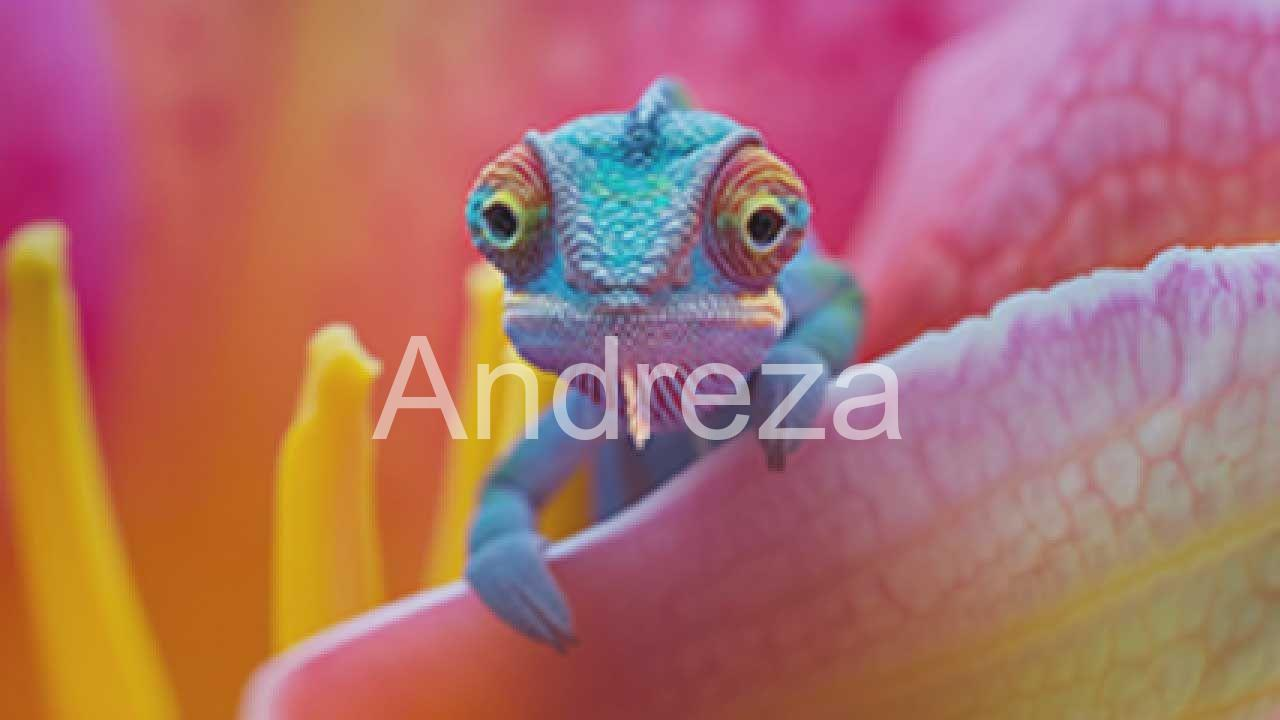
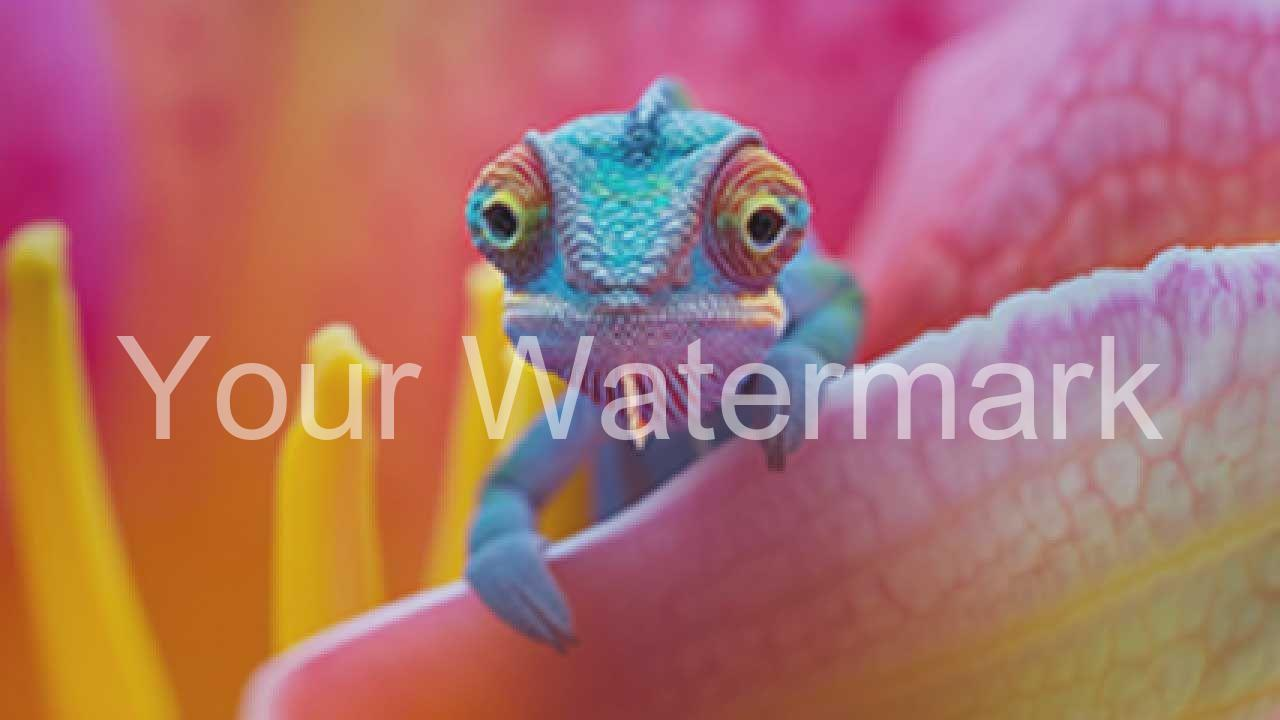
cleanup

Changed region(s): [[0.0938, 0.4583, 0.9062, 0.6111]]

diff --git a/server.py b/server.py
@@ -2,16 +2,16 @@ import os
 import sqlite3
 
 import requests
-from PIL import Image, ImageDraw, ImageFont
 from dotenv import load_dotenv
 from flask import Flask, render_template, session, request, redirect, url_for, send_file, \
     jsonify  # <-- Ensure 'session' is imported
 from flask_bootstrap5 import Bootstrap
-from spotipy import Spotify
+from spotify.user import get_spotify_for_user
 from spotipy.cache_handler import FlaskSessionCacheHandler  # Keep this import
 from spotipy.oauth2 import SpotifyOAuth
 
 from morse_code_converter import converter
+from watermark import add_watermark
 
 dotenv_path = os.path.join(
     os.path.dirname(__file__), ".env"
@@ -36,7 +36,6 @@ app.config["BEARER_TOKEN_MOVIE"] = os.environ.get("TMDB_BEARER_TOKEN")
 app.config["UPLOAD_FOLDER"] = "uploads"
 os.makedirs(app.config["UPLOAD_FOLDER"], exist_ok=True)
 BEARER_TOKEN_MOVIE = app.config.get("BEARER_TOKEN_MOVIE")
-
 SPOTIPY_CLIENT_ID = os.getenv('SPOTIFY_CLIENT_ID')
 SPOTIPY_CLIENT_SECRET = os.getenv('SPOTIFY_CLIENT_SECRET')
 SPOTIPY_REDIRECT_URI = os.getenv('SPOTIFY_REDIRECT_URI', 'https://website-0std.onrender.com/disney/callback')
@@ -55,9 +54,6 @@ SCOPE = (
     'user-top-read '
     'user-read-recently-played'
 )
-
-# *** CORRECTED INITIALIZATION OF sp_oauth ***
-# The FlaskSessionCacheHandler(session) is passed directly here.
 # Flask ensures 'session' is available when this part of the code is effectively used during a request.
 sp_oauth = SpotifyOAuth(
     client_id=SPOTIPY_CLIENT_ID,
@@ -69,88 +65,6 @@ sp_oauth = SpotifyOAuth(
 )
 
 Bootstrap(app)
-
-
-# It now creates its own cache_handler instance
-def get_spotify_for_user():
-    # Create a new FlaskSessionCacheHandler instance here, inside the function.
-    # 'session' will be available because this function runs within a Flask request context.
-    user_cache_handler = FlaskSessionCacheHandler(session)
-
-    # Use this newly created instance for validation and refreshing
-    token_info = sp_oauth.validate_token(user_cache_handler.get_cached_token())
-    if not token_info:
-        # No valid token, redirect to login
-        return None, None
-
-    if sp_oauth.is_token_expired(token_info):
-        token_info = sp_oauth.refresh_access_token(token_info['refresh_token'])
-        user_cache_handler.save_token_to_cache(token_info)  # Save refreshed token using this handler
-
-    sp = Spotify(auth_manager=sp_oauth)  # Use auth_manager with the cached token
-    return sp, token_info['access_token']
-
-
-def add_watermark(image_path, watermark_text, output_path):
-    """
-    Opens an image, adds a text watermark, and saves it to the output_path.
-    Returns the output_path if successful, None otherwise.
-    """
-    try:
-        img = Image.open(image_path).convert(
-            "RGBA"
-        )  # Open and ensure RGBA for transparency
-        width, height = img.size
-
-        # Make a new image for the watermark text that's the same size as the original
-        txt_img = Image.new(
-            "RGBA", (width, height), (255, 255, 255, 0)
-        )  # Transparent layer
-        draw = ImageDraw.Draw(txt_img)  # Draw on the transparent layer
-
-        # Font
-        try:
-            font_path = "arial.ttf"
-            font_size = int(height / 5)
-            font = ImageFont.truetype(font_path, font_size)
-        except IOError:
-            print(f"Warning: Font '{font_path}' not found. Using default PIL font.")
-            font_size = 70
-            font = ImageFont.load_default()
-
-        # Calculate text size and position
-        try:
-
-            bbox = font.getbbox(watermark_text)
-            text_width = bbox[2] - bbox[0]
-            text_height = bbox[3] - bbox[1]
-        except AttributeError:
-            text_width, text_height = draw.textsize(watermark_text, font=font)
-
-        padding = 10
-        x = (width - text_width) / 2
-        y = (height - text_height) / 2
-        # Add text watermark
-        draw.text((x, y), watermark_text, font=font, fill=(255, 255, 255, 128))
-
-        # Composite the text layer onto the original image
-        img_with_watermark = Image.alpha_composite(img, txt_img)
-
-        # If the output is JPEG, convert the RGBA image to RGB as JPEG doesn't support alpha
-        if output_path.lower().endswith((".jpg", ".jpeg")):
-            img_with_watermark = img_with_watermark.convert("RGB")
-
-        img_with_watermark.save(output_path)
-        return output_path
-
-    except FileNotFoundError:
-        print(f"Error: Input image file not found at {image_path}")
-        return None
-    except Exception as e:
-        print(
-            f"Error adding watermark: {e}"
-        )  # This will now correctly show other errors if they occur
-        return None
 
 
 @app.route("/")
@@ -295,43 +209,31 @@ def watermark():
     if request.method == "POST":
         if "file" not in request.files:
             return render_template("watermark.html", error="No file part")
-
         file = request.files["file"]
         watermark_text_input = request.form.get(
             "watermark_text", ""
         ).strip()  # Get from form
-
         if not watermark_text_input:  # Use default if empty
             watermark_text = "@Boehme"
         else:
             watermark_text = watermark_text_input
-
         if file.filename == "":
             return render_template("watermark.html", error="No selected file")
-
-        if file:  # and file.filename: # Redundant check, already handled by above
-            # Consider adding file type/extension validation here
+        if file:
             # e.g., allowed_extensions = {'png', 'jpg', 'jpeg', 'gif'}
-
             # Sanitize filename to prevent directory traversal or other issues
             from werkzeug.utils import secure_filename
-
             filename = secure_filename(file.filename)
             if not filename:  # If secure_filename returns empty (e.g., just "..")
                 return render_template("watermark.html", error="Invalid filename.")
-
             filepath = os.path.join(app.config["UPLOAD_FOLDER"], filename)
             file.save(filepath)
             print(f"Saved uploaded file to: {filepath}")
-
             # Generate a unique name for the output file to avoid overwrites if multiple users upload same filename
             base, ext = os.path.splitext(filename)
-            # Could add a timestamp or UUID for more uniqueness
             output_filename = f"watermarked_{base}{ext}"
             output_path = os.path.join(app.config["UPLOAD_FOLDER"], output_filename)
-
             watermarked_file_path = add_watermark(filepath, watermark_text, output_path)
-
             if watermarked_file_path:
                 try:
                     return send_file(
@@ -388,7 +290,6 @@ def callback():
     code = request.args.get('code')
     if code:
         token_info = sp_oauth.get_access_token(code)
-        # The cache_handler already saves the token to session['token_info']
         # You just need to return to the client with the access token
         return redirect(url_for('disney', access_token=token_info['access_token']))
     return "Error: No code received.", 400

diff --git a/watermark.py b/watermark.py
@@ -1,0 +1,54 @@
+from PIL import Image, ImageDraw, ImageFont
+
+
+def add_watermark(image_path, watermark_text, output_path):
+    """
+    Opens an image, adds a text watermark, and saves it to the output_path.
+    Returns the output_path if successful, None otherwise.
+    """
+    try:
+        img = Image.open(image_path).convert(
+            "RGBA"
+        )  # Open and ensure RGBA for transparency
+        width, height = img.size
+        # Make a new image for the watermark text that's the same size as the original
+        txt_img = Image.new(
+            "RGBA", (width, height), (255, 255, 255, 0)
+        )  # Transparent layer
+        draw = ImageDraw.Draw(txt_img)  # Draw on the transparent layer
+        # Font
+        try:
+            font_path = "arial.ttf"
+            font_size = int(height / 5)
+            font = ImageFont.truetype(font_path, font_size)
+        except IOError:
+            print(f"Warning: Font '{font_path}' not found. Using default PIL font.")
+            font_size = 70
+            font = ImageFont.load_default()
+        # Calculate text size and position
+        try:
+            bbox = font.getbbox(watermark_text)
+            text_width = bbox[2] - bbox[0]
+            text_height = bbox[3] - bbox[1]
+        except AttributeError:
+            text_width, text_height = draw.textsize(watermark_text, font=font)
+        padding = 10
+        x = (width - text_width) / 2
+        y = (height - text_height) / 2
+        # Add text watermark
+        draw.text((x, y), watermark_text, font=font, fill=(255, 255, 255, 128))
+        # Composite the text layer onto the original image
+        img_with_watermark = Image.alpha_composite(img, txt_img)
+        # If the output is JPEG, convert the RGBA image to RGB as JPEG doesn't support alpha
+        if output_path.lower().endswith((".jpg", ".jpeg")):
+            img_with_watermark = img_with_watermark.convert("RGB")
+        img_with_watermark.save(output_path)
+        return output_path
+    except FileNotFoundError:
+        print(f"Error: Input image file not found at {image_path}")
+        return None
+    except Exception as e:
+        print(
+            f"Error adding watermark: {e}"
+        )  # This will now correctly show other errors if they occur
+        return None

diff --git a/spotify.user.py b/spotify.user.py
@@ -1,0 +1,20 @@
+from flask import session
+from spotipy import FlaskSessionCacheHandler, Spotify
+
+from server import sp_oauth
+
+
+def get_spotify_for_user():
+    # 'session' will be available because this function runs within a Flask request context.
+    user_cache_handler = FlaskSessionCacheHandler(session)
+    token_info = sp_oauth.validate_token(user_cache_handler.get_cached_token())
+    if not token_info:
+        # No valid token, redirect to login
+        return None, None
+
+    if sp_oauth.is_token_expired(token_info):
+        token_info = sp_oauth.refresh_access_token(token_info['refresh_token'])
+        user_cache_handler.save_token_to_cache(token_info)  # Save refreshed token using this handler
+
+    sp = Spotify(auth_manager=sp_oauth)  # Use auth_manager with the cached token
+    return sp, token_info['access_token']
